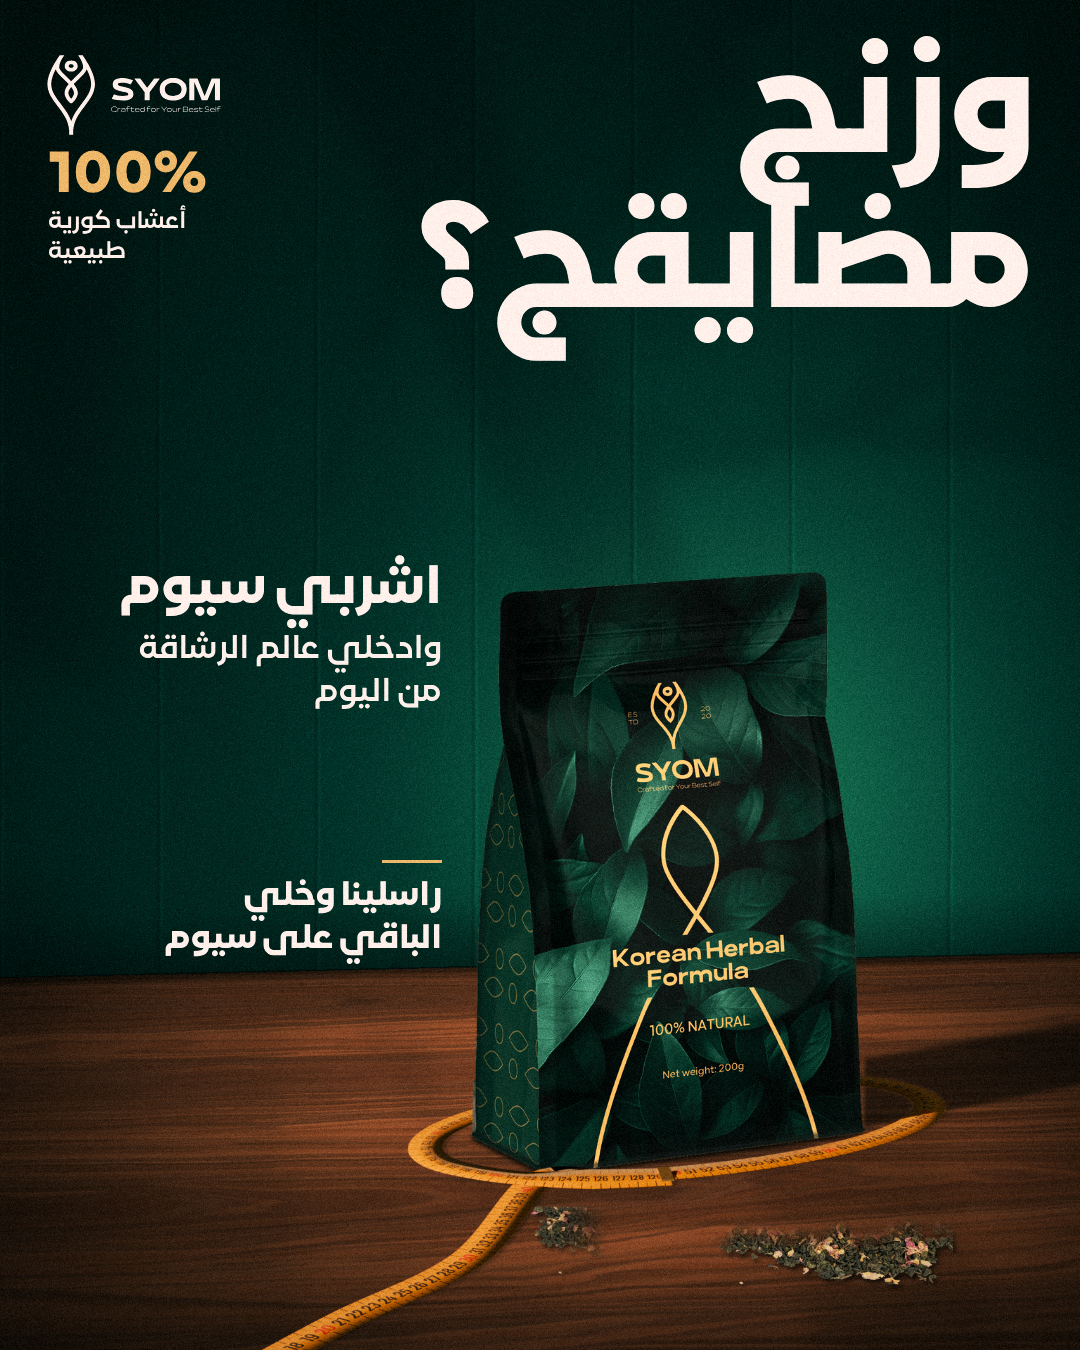
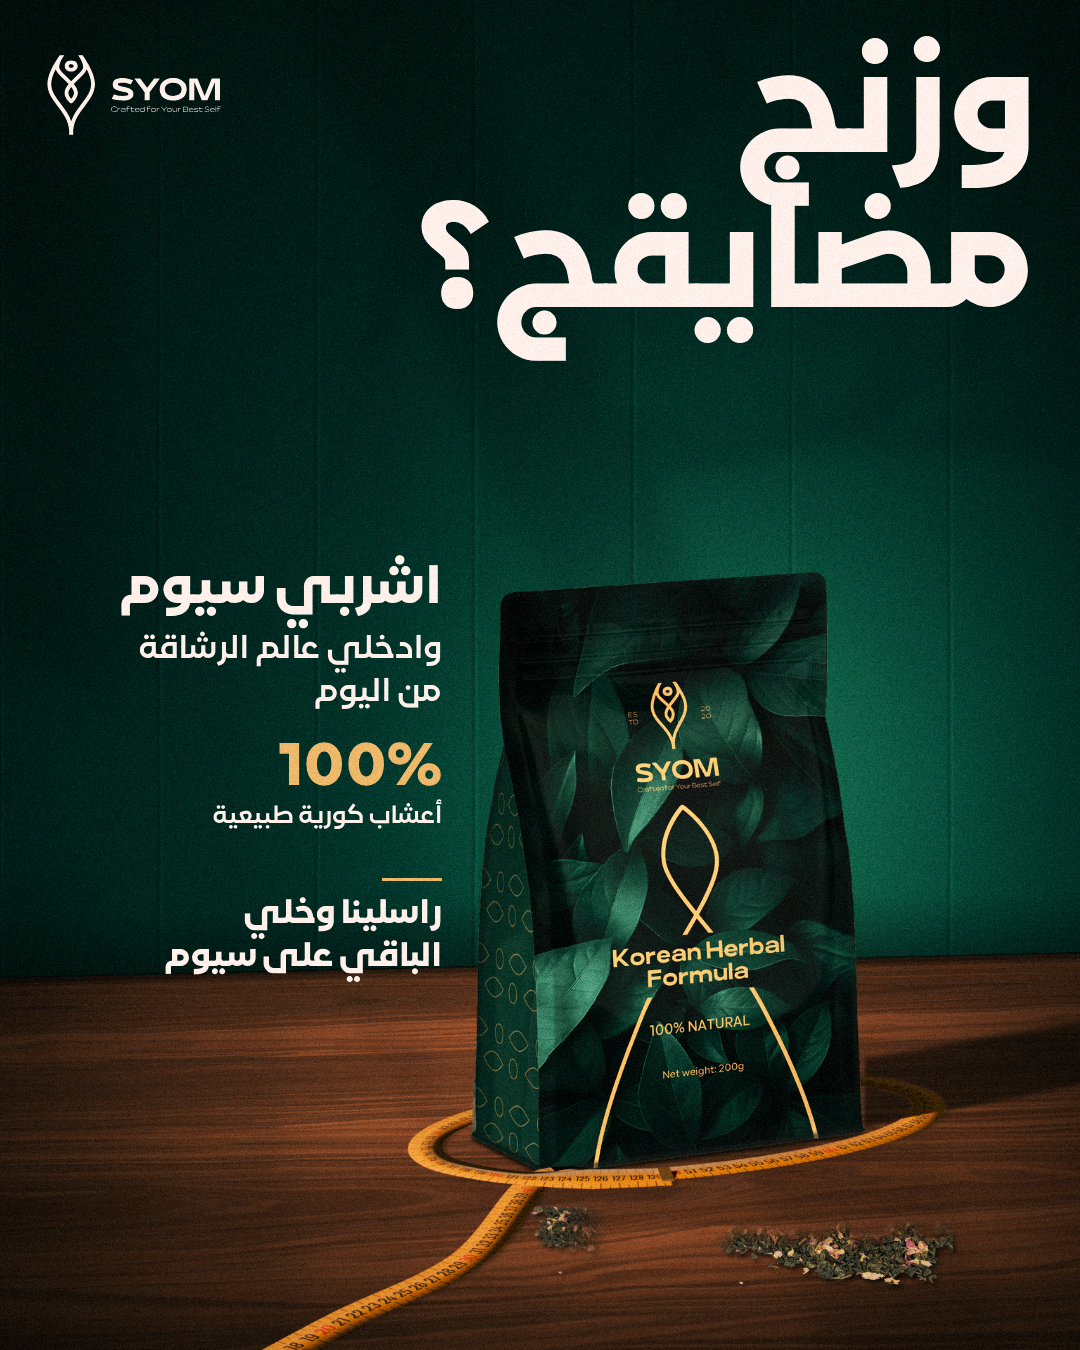
Syom Tea: ad D, 100% herbs line beside the pouch

Changed region(s): [[0.1528, 0.5289, 0.4278, 0.7467], [0.0306, 0.0933, 0.1833, 0.2178]]

diff --git a/marketing/syom-tea/adD/ad-post.html b/marketing/syom-tea/adD/ad-post.html
@@ -19,15 +19,15 @@
   .head { right: 44px; top: 42px; font-weight: 900; font-size: 150px; line-height: 1.03; letter-spacing: -2px; text-align: right; }
   .head span { display: block; white-space: nowrap; }
 
-  .herb { left: 48px; top: 150px; width: 210px; margin: 0; font-weight: 700; font-size: 24px; line-height: 1.25; text-align: left; }
-  .herb b { display: block; font-weight: 900; font-size: 58px; line-height: 1; color: var(--gold); }
+  .herb { right: 638px; top: 742px; width: 260px; margin: 0; font-weight: 700; font-size: 25px; line-height: 1.25; white-space: nowrap; }
+  .herb b { display: block; font-weight: 900; font-size: 60px; line-height: 1; color: var(--gold); }
 
   .col { right: 638px; top: 560px; width: 380px; }
   .col > * { margin: 0; }
   .d1 { font-weight: 900; font-size: 54px; line-height: 1.15; white-space: nowrap; }
   .d2 { margin-top: 8px !important; font-weight: 700; font-size: 33px; line-height: 1.3; white-space: nowrap; }
 
-  .cta { right: 638px; top: 860px; font-weight: 900; font-size: 34px; line-height: 1.25; white-space: nowrap; }
+  .cta { right: 638px; top: 878px; font-weight: 900; font-size: 34px; line-height: 1.25; white-space: nowrap; }
   .cta::before { content: ''; display: block; width: 60px; height: 3px; margin: 0 0 14px auto; background: var(--gold); }
 </style>
 </head>

diff --git a/marketing/syom-tea/adD/ad.html b/marketing/syom-tea/adD/ad.html
@@ -18,8 +18,8 @@
   .head { right: 50px; top: 262px; font-weight: 900; font-size: 176px; line-height: 1.03; letter-spacing: -2px; text-align: right; }
   .head span { display: block; white-space: nowrap; }
 
-  .herb { left: 52px; top: 392px; width: 250px; margin: 0; font-weight: 700; font-size: 30px; line-height: 1.25; text-align: left; }
-  .herb b { display: block; font-weight: 900; font-size: 72px; line-height: 1; color: var(--gold); }
+  .herb { right: 668px; top: 1022px; width: 300px; margin: 0; font-weight: 700; font-size: 30px; line-height: 1.25; white-space: nowrap; }
+  .herb b { display: block; font-weight: 900; font-size: 76px; line-height: 1; color: var(--gold); }
 
   .col { right: 668px; top: 790px; width: 362px; }
   .col > * { margin: 0; }

diff --git a/marketing/syom-tea/README.md b/marketing/syom-tea/README.md
@@ -102,8 +102,9 @@ Call to action options sent to him (all soft, since the ad has its own Send Mess
   128 <pass> 228` for shadow, back and front, `python3 compose.py 228` (plate-228.png, 1536x1920), then
   `node render.cjs adD/ad-post.html && python3 adD/grade.py out/syom-adD-post.png out/syom-adD-post.png`.
 - Client notes on ad D (23 Oct): drop the line about chemical products; set اشربي سيوم and وادخلي عالم الرشاقة من
-  اليوم as two bigger lines (عالم stays with الرشاقة); move 100% أعشاب كورية طبيعية elsewhere (now under the logo);
+  اليوم as two bigger lines (عالم stays with الرشاقة); move 100% أعشاب كورية طبيعية elsewhere (the client then suggested beside the pouch, where it now sits);
   the shoot photo of the pouch looked tired and leaned back, so the pouch is now the brand's own doypack mockup
   (8- Mockups/Doypack_Mockup_final1.png) facing the camera. The two other mockups (Untitled-2, freepik_edit) look
   generated and stay out. tape.py solves the camera to BX, BY, PH and writes cut/camera.json; compose.py reads it
   for the table's perspective and where the pouch goes.
+  The client left the angle to the user: straight on, so the whole print faces the reader.
